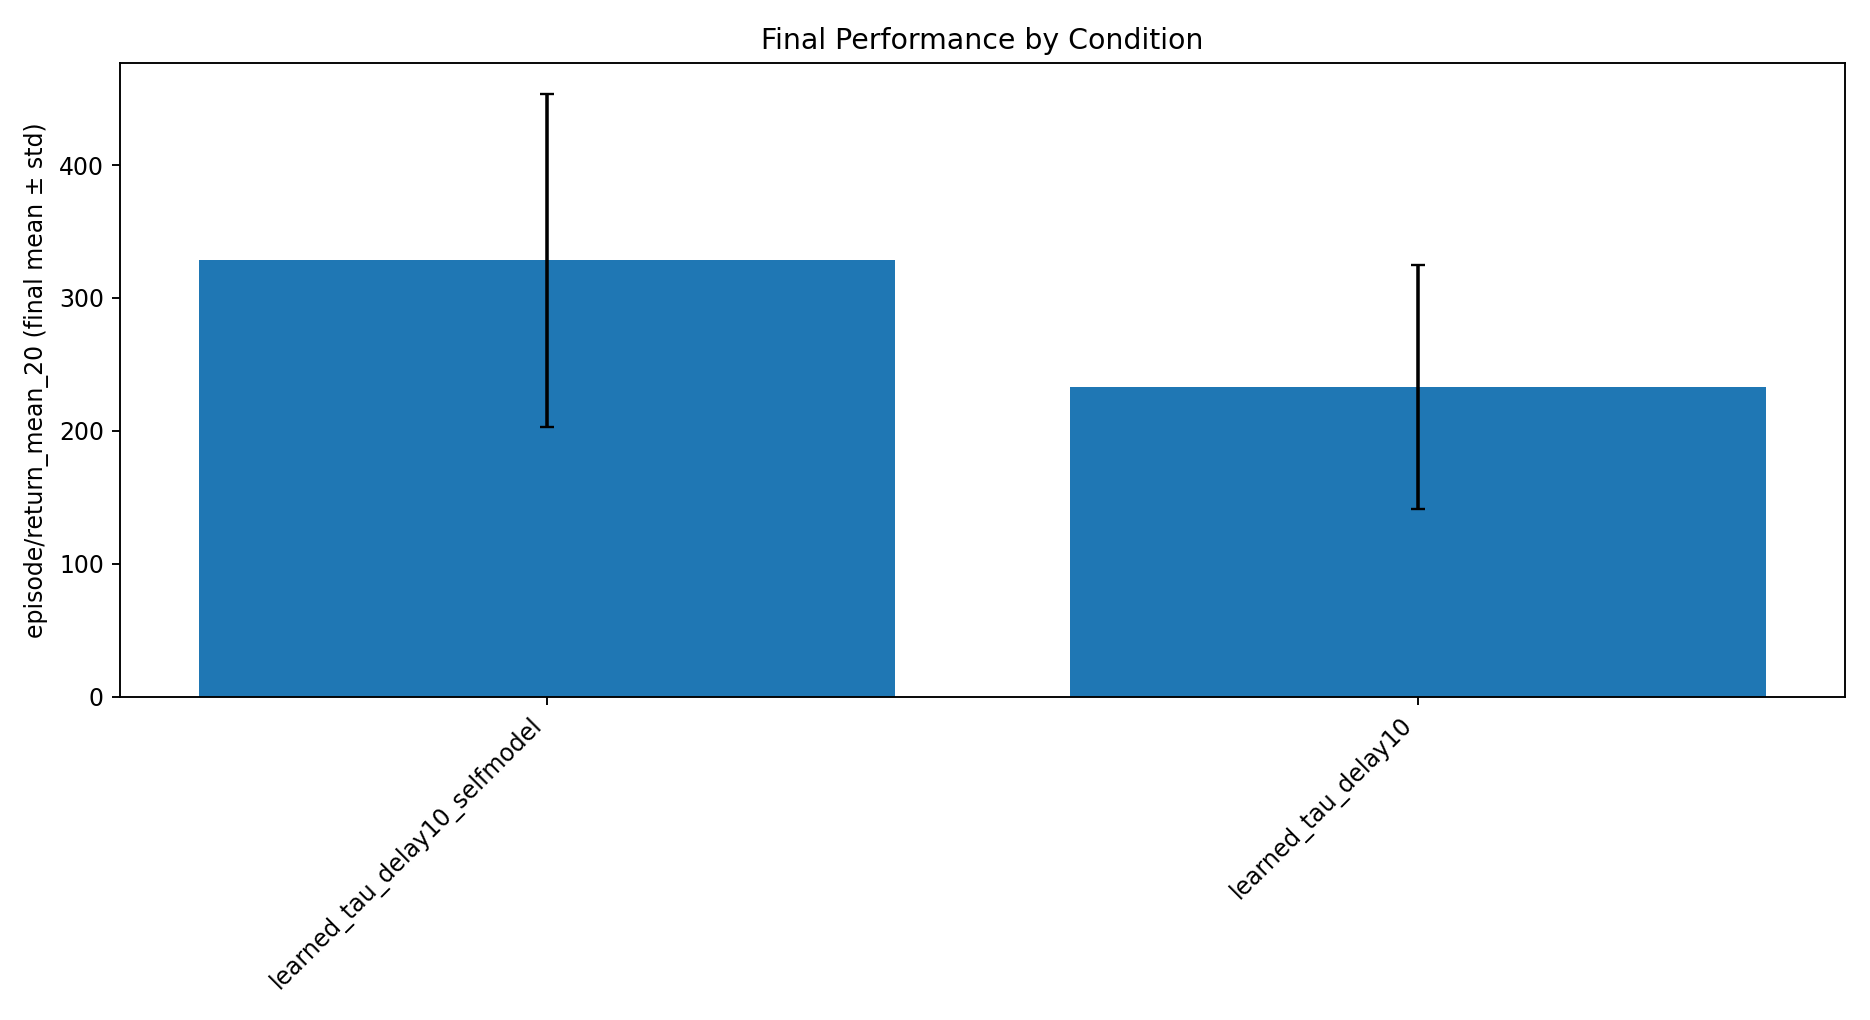
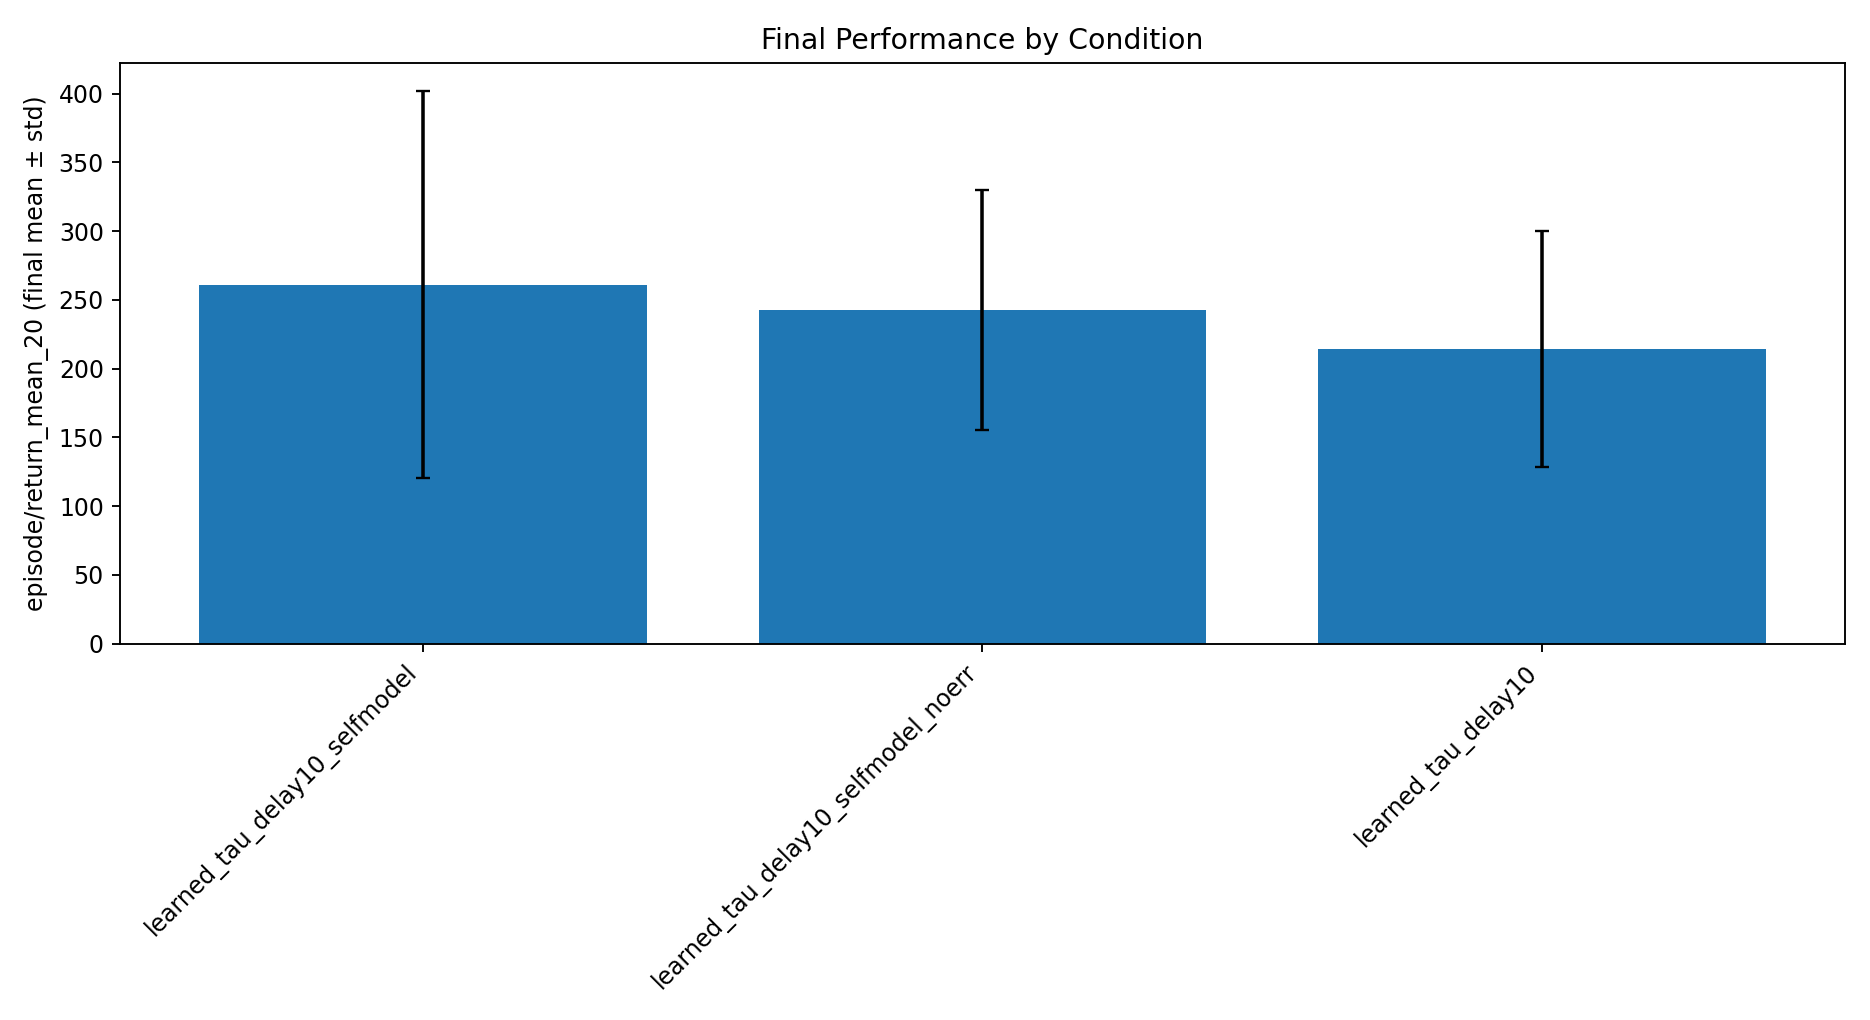
stage2_warmup_both20k_seed15_and_noerr_lock

diff --git a/docs/stage2_delay_warmup_both20k_paired_2026-02-16.tex b/docs/stage2_delay_warmup_both20k_paired_2026-02-16.tex
@@ -2,7 +2,9 @@
 \toprule
 anchor & comparator & metric & n_pairs & delta_mean & delta_std & ci95_low & ci95_high & delta_min & delta_max & n_positive & n_negative & n_zero \\
 \midrule
-learned_tau_delay10_selfmodel & learned_tau_delay10 & final_mean & 10 & 95.560 & 120.383 & 22.421 & 170.151 & -96.275 & 308.600 & 8 & 2 & 0 \\
-learned_tau_delay10_selfmodel & learned_tau_delay10 & auc & 10 & 24.306 & 49.483 & -3.725 & 57.548 & -37.341 & 140.801 & 7 & 3 & 0 \\
+learned_tau_delay10_selfmodel & learned_tau_delay10 & final_mean & 15 & 46.610 & 128.274 & -16.417 & 114.002 & -162.665 & 308.600 & 10 & 5 & 0 \\
+learned_tau_delay10_selfmodel & learned_tau_delay10 & auc & 15 & -4.707 & 61.729 & -35.320 & 27.684 & -112.604 & 140.801 & 7 & 8 & 0 \\
+learned_tau_delay10_selfmodel & learned_tau_delay10_selfmodel_noerr & final_mean & 15 & 18.439 & 144.669 & -54.143 & 90.941 & -255.950 & 259.405 & 8 & 7 & 0 \\
+learned_tau_delay10_selfmodel & learned_tau_delay10_selfmodel_noerr & auc & 15 & -8.962 & 63.792 & -39.972 & 23.692 & -108.944 & 109.838 & 7 & 8 & 0 \\
 \bottomrule
 \end{tabular}

diff --git a/docs/stage2_warmup_search_2026-02-16.tex b/docs/stage2_warmup_search_2026-02-16.tex
@@ -5,6 +5,6 @@ config & n_pairs & final_delta_mean & final_ci95_low & final_ci95_high & auc_del
 both50k & 5 & 6.447 & -155.647 & 165.099 & -17.067 & -48.591 & 16.719 \\
 tauonly50k & 5 & -12.911 & -91.461 & 67.986 & -45.660 & -92.639 & -7.512 \\
 lambdaonly50k & 5 & 4.611 & -147.554 & 155.862 & -18.957 & -88.702 & 65.392 \\
-both20k & 10 & 95.560 & 22.421 & 170.151 & 24.306 & -3.725 & 57.548 \\
+both20k & 15 & 46.610 & -16.417 & 114.002 & -4.707 & -35.320 & 27.684 \\
 \bottomrule
 \end{tabular}

diff --git a/docs/stage2_results_2026-02-16.md b/docs/stage2_results_2026-02-16.md
@@ -243,15 +243,18 @@ Machine-readable summary:
 
 - `docs/stage2_warmup_search_2026-02-16.csv`
 
-Best result (`both20k`, 10 seeds, root `runs/sweeps/stage2_delay_delaybiased_warmup_both20k_v1`):
+Best result by mean final score (`both20k`, 15 seeds, root `runs/sweeps/stage2_delay_delaybiased_warmup_both20k_v1`):
 
-- Paired final delta (`selfmodel - learned`): `+95.560` (CI `[22.421, 170.151]`)
-- Paired AUC delta (`selfmodel - learned`): `+24.306` (CI `[-3.725, 57.548]`)
+- Paired final delta (`selfmodel - learned`): `+46.610` (CI `[-16.417, 114.002]`)
+- Paired AUC delta (`selfmodel - learned`): `-4.707` (CI `[-35.320, 27.684]`)
+- Paired final delta (`selfmodel - noerr`): `+18.439` (CI `[-54.143, 90.941]`)
+- Paired AUC delta (`selfmodel - noerr`): `-8.962` (CI `[-39.972, 23.692]`)
 
 Interpretation:
 
-- Warmup converted delay=10 from inconclusive (`selfmodel - learned` CI crossing zero) to a positive final-performance gap with CI lower bound above zero.
-- AUC also improved in mean, but CI still crosses zero, so sample-efficiency superiority is not yet fixed.
+- The earlier 10-seed gain for `both20k` did not hold under seed expansion to 15 seeds.
+- Under warmup, both `selfmodel - learned` and `selfmodel - noerr` are direction-positive in final mean but not statistically conclusive at 95% CI.
+- AUC does not improve robustly under the current 15-seed estimate.
 - `tauonly50k` and `lambdaonly50k` both underperformed, indicating that balanced short warmup is the stable direction rather than one-sided long warmup.
 
 ## Figures
